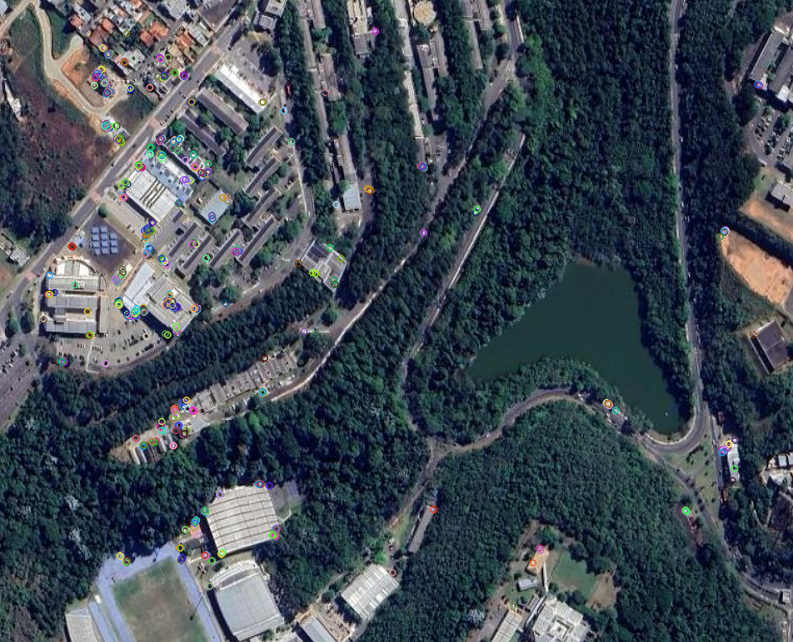
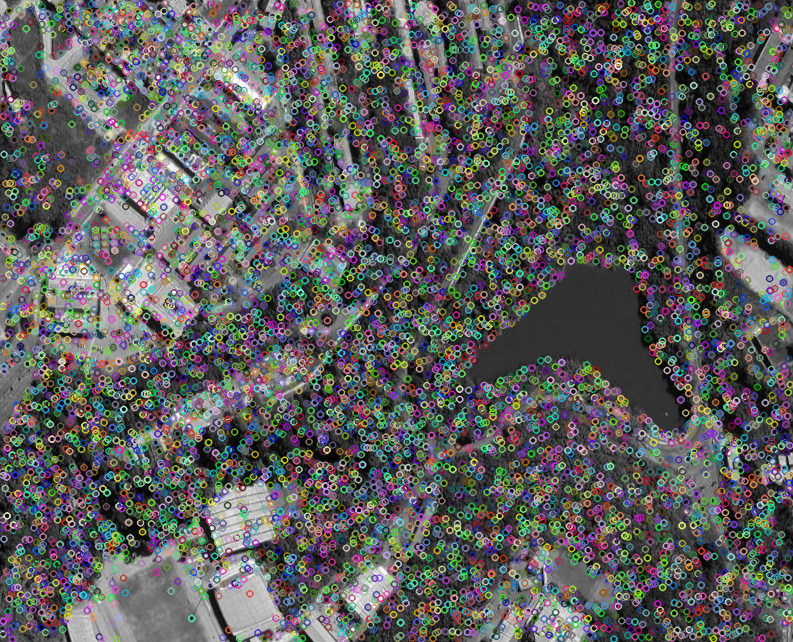
remove cache e adiciona novos resultados

diff --git a/ransac.py b/ransac.py
@@ -19,7 +19,7 @@ def HomographyGenerator(pairs):
 
     # Normalization
     H = (1 / H.item(8)) * H
-    
+
     return H
 
 # Funcao usada para atualizar o valor de N no loop do RANSAC
@@ -55,6 +55,8 @@ def run_RANSAC(pointsMap):
     homography = None
     epsilon = 1.0 # Epsilon inicial (pode ser alterado)
     epsilonUpdate = 0.0
+
+    print(f'Running RANSAC with {len(pointsMap)} points...')
     
     # Adaptative RANSAC
     while (N > counterSamplings):
@@ -88,6 +90,13 @@ def run_RANSAC(pointsMap):
         
         # Atualiza o numero de amostragens
         counterSamplings += 1
+
+        # Printa resultados
+        print(f'\x1b[2K\r└──> iteration {counterSamplings}/{N}', end='')
+        
+        print(f'\nNummber of matches: {len(pointsMap)}')
+        print(f'Number of inliers: {len(bestInliers)}')
+        print(f'Minimum inliers: {minInliers}')
         
     return homography, bestInliers
 

diff --git a/main.py b/main.py
@@ -8,16 +8,15 @@ import generate_panorama
 def main():
     
     # Define o par de imagens que sera usado para criar a imagem panoramica
-    pair_imgs = 'B' # A, B, C, D
+    pair_imgs = 'A' # A, B, C, D
 
-    # Faz a leitura do par de imagens a partir da pasta 'images'.
-    
+    # Faz a leitura do par de imagens a partir da pasta 'images'
     imgInput1 = cv2.imread('input_images\\pair_images_{}\\input1.jpg'.format(pair_imgs))
     imgInput2 = cv2.imread('input_images\\pair_images_{}\\input2.jpg'.format(pair_imgs))
 
     # Chama a funcao para fazer a correspondencia entre as imagens e retornar o mapa de pontos
     pointsMap = matching_images.run_matching_images(imgInput1, imgInput2, pair_imgs)
-
+    
     # Chama a funcao do para computar a homografia a partir do RANSAC
     homography, inliers = ransac.run_RANSAC(pointsMap)
 

diff --git a/matching_images.py b/matching_images.py
@@ -36,9 +36,9 @@ def run_matching_images(img1, img2, pair_imgs):
 
     # Salva as imagens com os pontos de interesse
     cv2.imwrite('results\\pair_images_{}\\keypoints_img1.png'.format(pair_imgs),
-                cv2.drawKeypoints(img1, img1_keypoints, img1))
+                cv2.drawKeypoints(img1_gray, img1_keypoints, img1_gray))
     cv2.imwrite('results\\pair_images_{}\\keypoints_img2.png'.format(pair_imgs),
-                cv2.drawKeypoints(img2, img2_keypoints, img2))
+                cv2.drawKeypoints(img2_gray, img2_keypoints, img2_gray))
     
     # Chama a funcao BFMatcher do OpenCV para forcar a matching entre as duas imagens 
     matcher = cv2.BFMatcher(cv2.NORM_L2, True)
